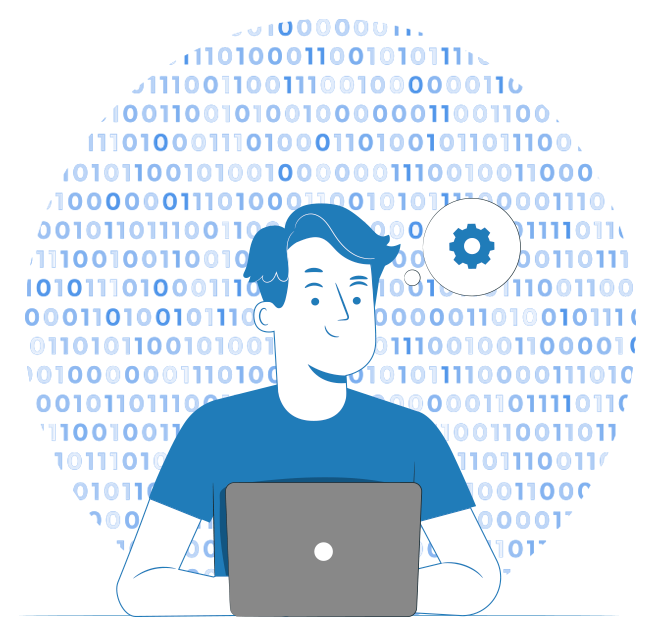
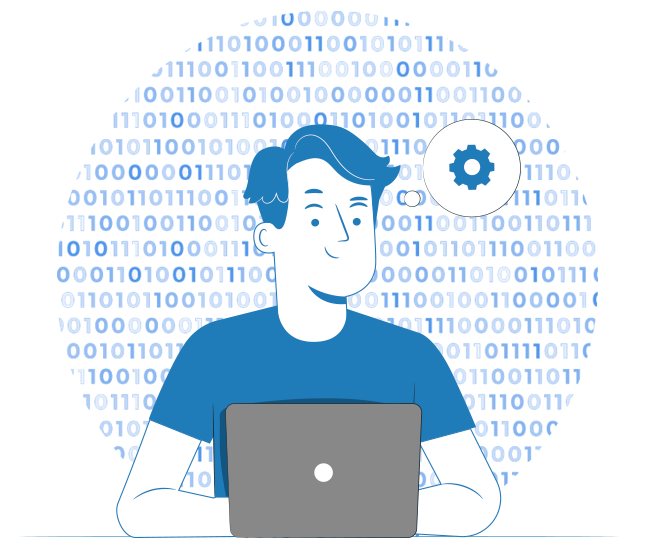
update software test

diff --git a/public/software_test.html b/public/software_test.html
@@ -109,48 +109,46 @@
         <div class="grid md:grid-cols-2">
 
           <div class="md:order-12 p-10">
-            <img src="img/systerm_engineer.png">
+            <img src="img/software_tester.png">
           </div>
           <div class="mb-10 mx-auto max-w-max overflow-hidden rounded-lg md:order-1">
             <h2
               class="text-3xl md:text-5xl mb-8 leading-tight text-center md:text-left blue font-bold tracking-tight">
-              System Engineer</h2>
-            <p class="mb-8 pb-4 text-gray-700 text-lg md:text-xl font-normal">The Engineering department is responsible
-              for the development of our products in collaboration with our software development team.<br>
-              
-              The team is responsible for the perfect design of new products, seamless execution of upgrades,
-              documentation and installation procedures.<br>
-             
-              The projects and activities within the Engineering department are mainly driven by product management.<br>
-           
-              As the requirements of our products are of a very high level, requirements for the personnel are similar.
-              Therefore he or she needs outstanding technical skills, understanding of systems used in the context of
-              hosting providers and data centers as well as good communication skills.
+              Software Test Engineer</h2>
+            <p class="mb-8 pb-4 text-gray-700 text-lg md:text-xl font-normal">As a Software Test Engineer in our team you will work closely with 
+              development and program management to help determine the vision, scope, 
+              design, testability and requirements for our next generation of the product.<br> 
+              <br>You will own the test innovation and test tools strategy, planning, and scheduling necessary to deliver a high quality product, including product feature validation, performance and scalability testing, and customer scenario-focused testing.
             </p>
           </div>
-
-
         </div>
         <h3 class="mb-4 text-2xl md:text-3xl text-gray-700 font-semibold">Responsibilities:</h3>
         <ul class="list-disc list-inside px-5 text-base md:text-lg mb-10 py-2 border-l-2 border-blue-500">
-          <li>Develop new products in collaboration with the software developers.</li>
-          <li>Compile, build and deploy custom-made integrated operating systems and environments.</li>
-          <li>Test new products before handing them over to operations</li>
-          <li>Test installation procedures.</li>
-          <li>Provide installation manuals for all products and upgrades.</li>
-          <li>Writes user documentation matching the provided solution.</li>
+          <li>Develop automated component and integration tests.</li>
+          <li>Create scripts and run big system tests.</li>
+          <li>Update and expand existing tests.</li>
+          <li>Verify product test coverage.</li>
+          <li>Expand and maintain the testing tool chain.</li>
+          <li>Works in the Quality Engineering Team and reports to the team lead.</li>
         </ul>
         <h3 class="mb-4 text-2xl md:text-3xl text-gray-700 font-semibold">Requirements:</h3>
         <ul class="list-disc list-inside px-5 text-base md:text-lg mb-10 py-2 border-l-2 border-blue-500">
-          <li>Bachelor degree in Computer science or equivalence by experience.</li>
-          <li>Up to 3 years experience in systems engineering relevant to the described job.</li>
-          <li>Strong knowledge of Linux, familiarity with different distros is a plus.</li>
-          <li>Understanding of virtualization technologies (Xen, VMWare,...), storage (NAS, SAN) and networking
-            technologies (VLAN, L2 and L3 protocols, Firewalling, VPN, Monitoring...).</li>
-          <li>Profound understanding of internet technology (HTTP, FTP, SMTP,...).</li>
-          <li>Experience with scripting: python, bash.</li>
-          <li>Team player.</li>
-          <li>Knowledge of English (required).</li>
+          <li>0-3 years experience in software development relevant to the described job.</li>
+          <li>Knowledge of C++ or Java.</li>
+          <li>Knowledge of Python and Python Libraries.</li>
+          <li>Excellent technical skills, attention to detail, debugging and problem solving skills.</li>
+          <li>Strong customer focus and passion for doing the right thing for the customer.</li>
+          <li>Proven track record as a strong Software Test Development Engineer in various aspects of testing.</li>
+          <li>Successful completion of a full product development lifecycle, having shipped at least two versions of a product.</li>
+          <li>Deep understanding of database concepts is a must, hands on experience with PostgreSQL or MySQL is a must, experience with Object Store concepts is a plus.</li>
+          <li>Deep Knowledge of storage systems concepts and technologies (NAS, SAN, RAID, EXT3, GFS, Hadoop, etc ...).</li>
+          <li>Good knowledge of networking protocols (TCP/IP).</li>
+          <li>Understanding of agile software development methodologies and test driven development.</li>
+          <li>Strong skills with Linux operating system is a must, at intermediate user/scripting level experience.</li>
+          <li>Open-source practitioner, contributions to open-source projects is a plus.</li>
+          <li>Good knowledge of spoken and written English.</li>
+          <li>Willing to travel to abroad for training/deployments every 3-6 months.</li>
+          <li>Team player, self motivated and passionate for technology and innovation.</li>
         </ul>
 
         <p class="mb-12 text-lg md:text-xl font-normal">Feel free to apply with a cover letter and CV to <a

diff --git a/public/careers.html b/public/careers.html
@@ -179,7 +179,13 @@
               growing technical and management teams. Working on massive scale
               projects for the biggest tech and media companies, with some of
               the best developers in Egypt. <br />If you want to stay posted you
-              can check our Linkedin page.
+              can check our
+              <a
+                class="blue hover:text-blue-900"
+                href="https://www.linkedin.com/company/codescalers-egypt/mycompany/"
+                target="_blank"
+                >Linkedin page.</a
+              >
             </p>
           </div>
           <div class="lg:w-1/2 px-2">
@@ -216,9 +222,7 @@
                 team.
               </p>
               <br />
-              <h3 class="mb-3 font-semibold font-heading font-semibold">
-                Includes
-              </h3>
+              <h3 class="mb-3 font-semibold font-heading">Includes</h3>
               <ul class="mb-8 list-inside list-disc text-gray-700">
                 <li class="mb-1">Full time</li>
                 <li class="mb-1">Min. 3 Years</li>
@@ -255,8 +259,8 @@
               </ul>
               <a
                 class="inline-block w-full py-3 px-5 leading-none text-center text-white bg-blue-500 hover:bg-blue-600 font-semibold rounded shadow"
-                href="#"
-                >Apply</a
+                href="/software_test.html"
+                >More Details</a
               >
             </div>
           </div>
